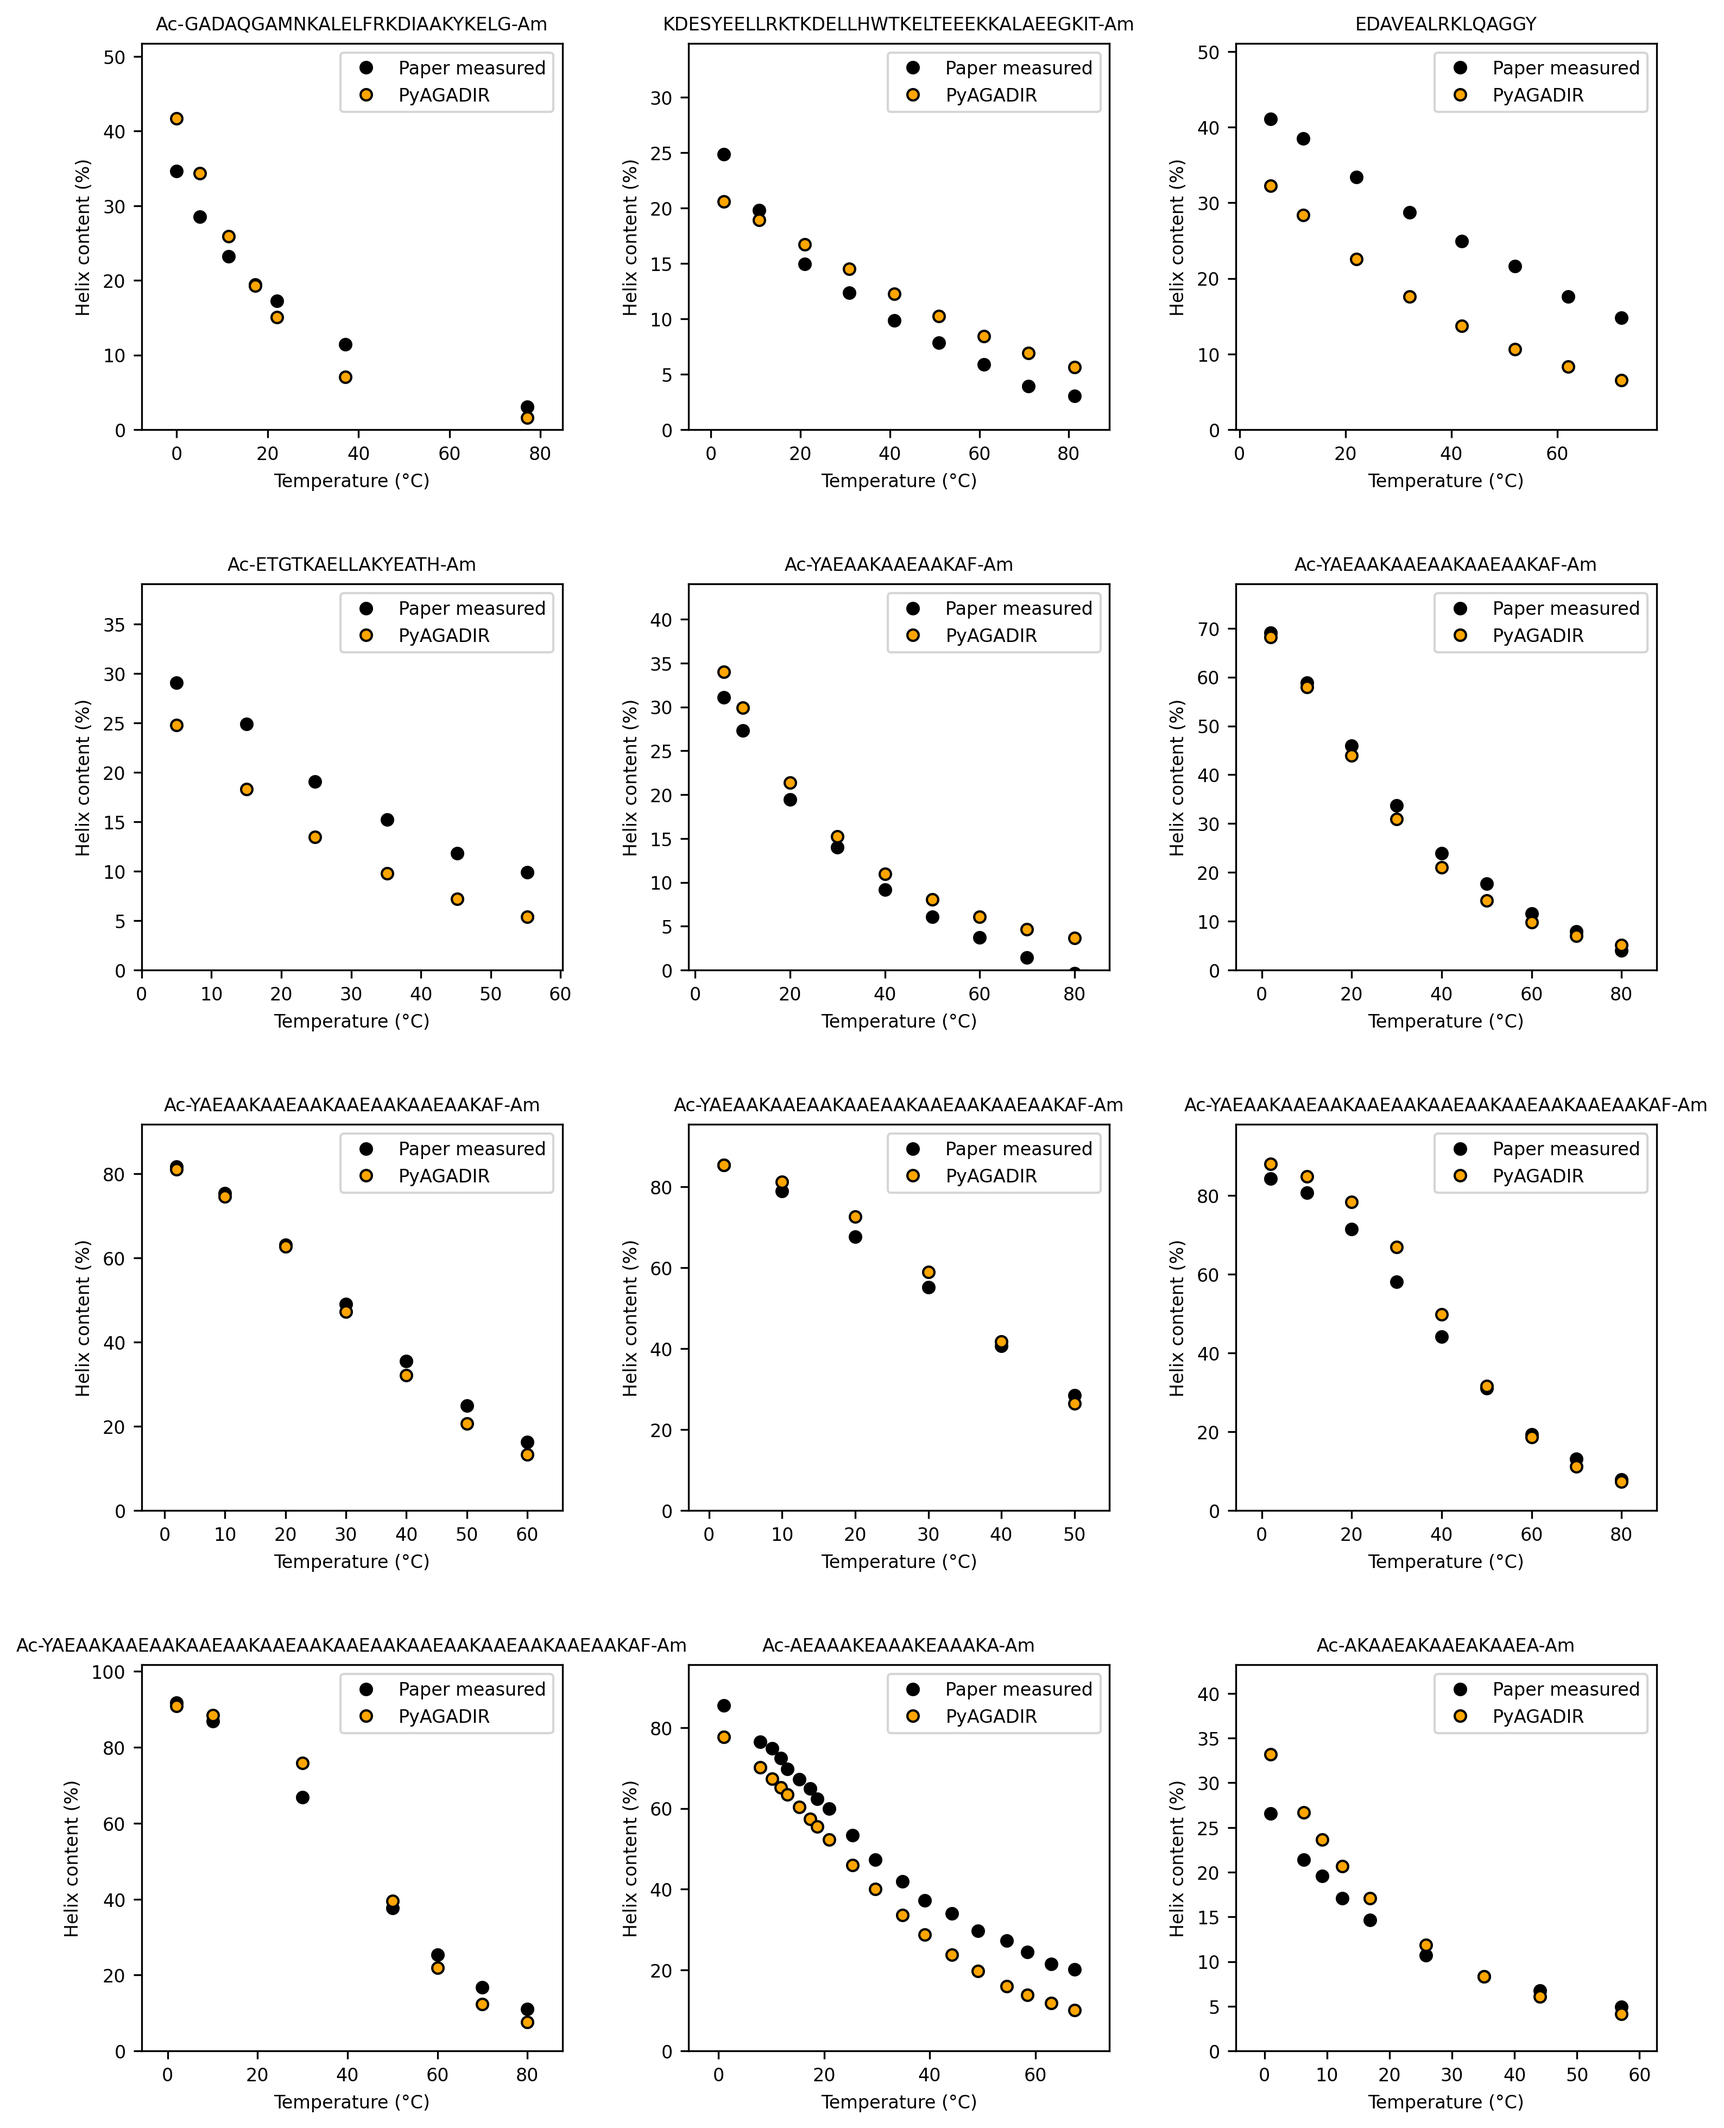
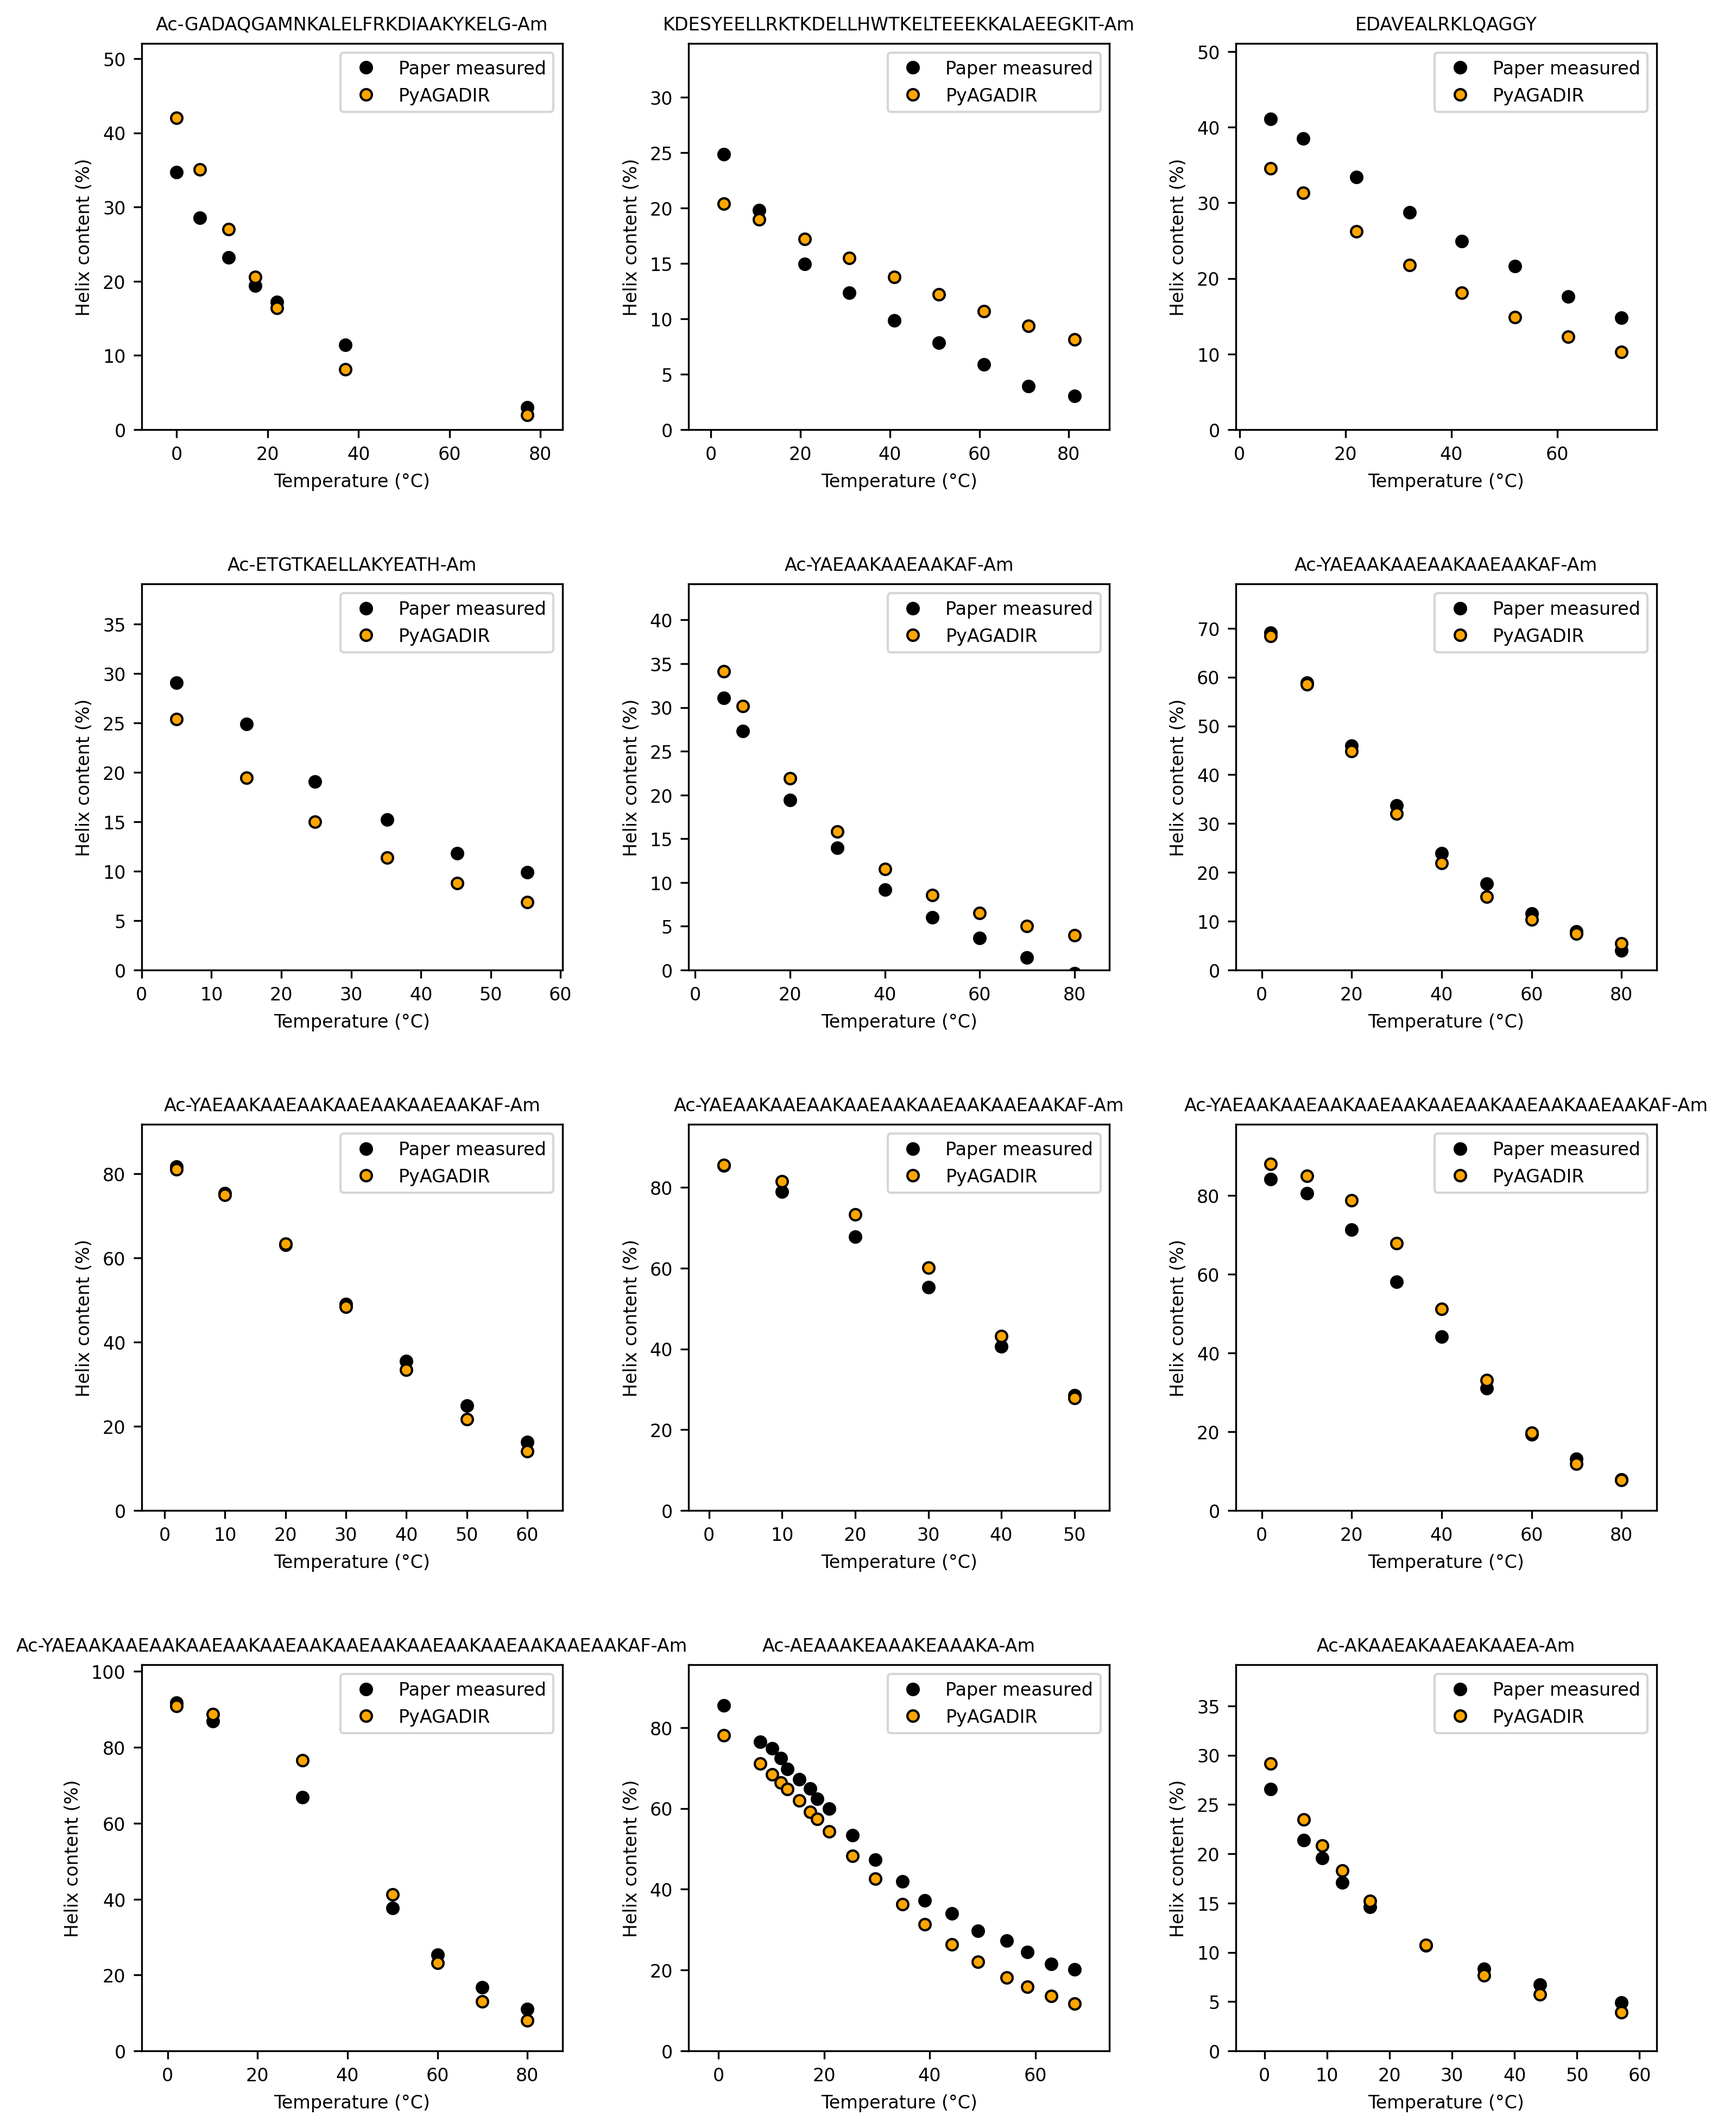
Lys and Arg at N2 take Leu's measured peptide offset: 0.097/0.199 -> 0.25
FIRST_TURN_N2_OFFSET for K and R now equals the N2-minus-interior cost
measured for Leu in poly-Ala peptides (Petukhov et al. 1998, +0.25),
instead of the protein single-mutant scan (Tsuboyama et al. 2023),
which gave +0.097 and +0.199. H, C, F, Y and W keep the scan values.

The peptides with Lys at N2 support the peptide value once each is
compared with the other peptides of its own host. With the scan values,
Lys at N2 was over-predicted relative to its own host in every design
that allows the comparison: 3.8 helix points in Cochran & Doig's N2 host
(-0.3 now), 8.0 in Lacroix et al.'s Lys walk (5.9) and 5.9 in Marqusee
& Baldwin's Ac-AKAAEAKAAEAKAAEA-NH2 (2.0).

Mean panel RMSE 3.132 -> 2.969 (Lacroix 2.763 -> 2.509, Munoz & Serrano
1995 3.970 -> 3.818, Munoz & Serrano 1997 1.203 -> 1.154,
Huyghues-Despointes unchanged); residual structure 2.484 -> 2.440.
Six literature sets are worse by 0.5 or more (Padmanabhan 1996 +2.2,
Marqusee & Baldwin 1987 +1.9, Doig & Baldwin 1995 +1.4, Chakrabartty
1993 +1.3, Padmanabhan & Baldwin 1994 +1.2, Chakrabartty 1994 +0.5).
In all of them every peptide has Lys at N2, and each host is already
under-predicted for documented reasons (multi-charge salt gain at 1 M,
N-terminal Tyr/Trp induced CD, the ...AAGY frame). Lacroix's KR-7f stays
about 6 points high, and the (i+4)K,E peptide of Marqusee & Baldwin
gets 4 points lower. See params/README.md.

Validation figures regenerated. They also pick up the Leu N3 cell, the
[…]

diff --git a/pyagadir/energies.py b/pyagadir/energies.py
@@ -50,12 +50,12 @@ SUCCINYL_HELIX_DISTANCE = {("acid", 1): 9.33, ("acid", 2): 3.95, ("acid", 3): 5.
 
 # First-turn offset (kcal/mol at 273 K) added to the Table 1 N2 cell of the residues whose first-turn cells were never
 # measured in peptides (Lacroix 1998 took the N1-N4 cells from Petukhov's poly-Ala measurements; K, R and H were left
-# at their interior value, C, F, Y and W at round numbers). Each value makes the residue's N2-minus-interior offset
-# equal to the one measured in the single-mutant scan of Tsuboyama et al. 2023 (Nature 620, 434; exposed helix sites,
-# relative to Ala), scaled by 0.943 so that Leu's protein offset equals its peptide value (Petukhov et al. 1998,
-# J. Mol. Biol. 278, 279: N2 +0.25 above the interior), after removing this model's own electrostatic N2 offset for
-# the charged residues (+0.055 for Lys/Arg at the scan's conditions). Charge-independent. See params/README.md.
-FIRST_TURN_N2_OFFSET = {"K": 0.097, "R": 0.199, "H": -0.059, "C": 0.228, "F": 0.162, "Y": 0.157, "W": 0.141}
+# at their interior value, C, F, Y and W at round numbers). Lys and Arg take the measured peptide value for Leu at N2
+# (Petukhov et al. 1998, J. Mol. Biol. 278, 279: +0.25 above the interior), which the peptides with Lys at N2 support
+# when each is compared with the other peptides of its own host. H, C, F, Y and W take the N2-minus-interior offsets of
+# the single-mutant scan of Tsuboyama et al. 2023 (Nature 620, 434; exposed helix sites, relative to Ala), scaled by
+# 0.943 so that Leu's protein offset equals its peptide value. Charge-independent. See params/README.md.
+FIRST_TURN_N2_OFFSET = {"K": 0.25, "R": 0.25, "H": -0.059, "C": 0.228, "F": 0.162, "Y": 0.157, "W": 0.141}
 
 # Hydrogen-bond terms share one temperature law (EnergyCalculator._hbond_temperature): Munoz & Serrano 1995-III
 # eq. (8) for the backbone bond, dH_ref = -0.898 kcal/mol per bond at 273 K (Lacroix 1998). Side chains and end groups

diff --git a/pyagadir/params/README.md b/pyagadir/params/README.md
@@ -33,7 +33,7 @@ The Glu (E) row departs from the published table: its charged columns are 0.172 
 
 The Ile (I) and Leu (L) N3 cells depart from the published table: I 1.08 → 1.26 and L 0.98 → 1.10. The published N3 values come from Petukhov et al. (1998, J. Mol. Biol. 278, 279; peptides Ac-AAXAAAAARAAARGGY-NH2) and were fitted in an earlier version of the model. With this model's other terms they no longer reproduce those peptides. Each cell is re-fitted so that the model's X3/Ala helicity ratio equals the measured one. Ile: two independent hosts agree, +0.20 for Petukhov et al. (1998) and +0.17 for Iqbalsyah & Doig (2004, Protein Sci. 13, 32; Ac-AAXAAAAKAAAAKAGY-NH2), and the cell is their mean. Leu: the cell rests on Petukhov et al. (1998) alone (L3/A1 = 0.766 against 0.767 measured). An earlier version also averaged in a fit to Iqbalsyah & Doig (2004), giving 1.21, but the two fits disagreed (+0.16 and +0.30 on the published value when they were made). That host's N3 series disagrees with every other source for nearly every non-aliphatic residue: the model over-predicts its Lys, Gln, Asn and Arg variants by 8, 9, 16 and 31 helix points. The authors note that their N3 energies are higher than Petukhov's. Moving a residue from N2 to N3 in the same lab's near-identical N2 host (Cochran & Doig 2001, Protein Sci. 10, 1305) lowers the measured helicity by 6–29 points where the model predicts no change. Its Lys variant has the same local sequence as the Ac-(AAKAA)nY peptides of Rohl et al. (1992, Biochemistry 31, 1263; helicity from amide exchange at 1 M NaCl), which the model fits. Exposed N3 sites in the single-mutant scan of Tsuboyama et al. (2023, Nature 620, 434) put Leu +0.17 above the helix interior relative to Ala (cell 0.99 on the peptide scale used for `FIRST_TURN_N2_OFFSET`), in the same direction as the Petukhov-only value. Effect of 1.21 → 1.10: mean panel RMSE -0.002 (Munoz & Serrano 1995 -0.004; Huyghues-Despointes, Lacroix and Munoz & Serrano 1997 unchanged); Petukhov et al. (1998) Leu-at-N3 peptide from 2.9 to 0.3 helix points off. The only literature set that moves by more than 0.1 is Petukhov et al. (1996, +0.14). Met, Val and Gly N3 cells reproduce Petukhov et al. (1998) as published and are unchanged.
 
-First-turn N2 offset (`FIRST_TURN_N2_OFFSET` in energies.py, added to the N2 cell; the table itself is unchanged): K +0.097, R +0.199, H -0.059, C +0.228, F +0.162, Y +0.157, W +0.141 kcal/mol. Lacroix et al. (1998) took the N1-N4 cells from poly-Ala peptide measurements (Petukhov et al. 1998, J. Mol. Biol. 278, 279, for Leu, Ile, Val, Met and Gly; Petukhov & Serrano, unpublished). The other residues were never measured there: K, R and H keep their interior value at N2, and C, F, Y and W a round -0.10. Lacroix et al. suggested that their over-predicted Lys-at-N2 peptide (KR-7f, their Fig. 4G) reflects exactly this: "the intrinsic helical propensity of Lys is position dependent in the first helical turn". Every residue measured at N2 is less favourable there than in the interior relative to Ala: Leu +0.25 in Petukhov's peptides, and similar costs in the N2 scan of Cochran & Doig (2001, Protein Sci. 10, 1305). Petukhov et al. attribute this to the side chain's fewer contacts with the first helical turn, only partly repaid by its extra chi1 freedom there. Nothing in that mechanism depends on charge, so the offset is added after the charged/neutral interpolation. The per-residue sizes come from a second, independent measurement: the single-mutant scan of Tsuboyama et al. (2023, Nature 620, 434). At exposed helix sites, relative to Ala, each residue's N2-minus-interior stability cost was taken, scaled by 0.943 so that Leu's protein value (+0.27) equals its peptide value (+0.25). For Lys and Arg the scan's value includes the charge-macrodipole interaction, which this model computes separately, so its own N2 offset at the scan's conditions (+0.055) was removed first. Effect: mean panel RMSE 3.502 -> 3.386 (Lacroix 3.075 -> 2.886, Lys-at-N2 panel KR-7f 9.36 -> 7.88; Munoz & Serrano 1995 4.507 -> 4.407, its Marqusee & Baldwin 1987 Ac-AKAAEAK... panel 5.15 -> 3.50; Munoz & Serrano 1997 1.261 -> 1.223); residual structure 2.587 -> 2.565. Literature sets worse by more than 1.0: Marqusee & Baldwin 1987 (+1.08; its (i+4)K,E peptide is already under-predicted by 30 points) and Padmanabhan et al. 1996 (+1.24; its N-terminal Tyr adds a positive induced CD band that lowers the measured helicity, Chakrabartty et al. 1993, Biochemistry 32, 5560). Both are Lys-at-N2 peptides of a Lys-rich family that the model already under-predicts. Status: the offset rests on one peptide anchor (Leu) and one protein dataset for the pattern. A peptide N2 scan of K, R, H, C, F, Y and W without aromatic CD artefacts would test it and should supersede it. The peptides support a larger Lys value (about +0.25 to +0.4: Cochran & Doig 2001; Lacroix et al. 1998 KR-7f; Marqusee & Baldwin 1987), so KR-7f stays over-predicted by about 7 points.
+First-turn N2 offset (`FIRST_TURN_N2_OFFSET` in energies.py, added to the N2 cell; the table itself is unchanged): K +0.25, R +0.25, H -0.059, C +0.228, F +0.162, Y +0.157, W +0.141 kcal/mol. Lacroix et al. (1998) took the N1-N4 cells from poly-Ala peptide measurements (Petukhov et al. 1998, J. Mol. Biol. 278, 279, for Leu, Ile, Val, Met and Gly; Petukhov & Serrano, unpublished). The other residues were never measured there: K, R and H keep their interior value at N2, and C, F, Y and W a round -0.10. Lacroix et al. suggested that their over-predicted Lys-at-N2 peptide (KR-7f, their Fig. 4G) reflects exactly this: "the intrinsic helical propensity of Lys is position dependent in the first helical turn". Every residue measured at N2 is less favourable there than in the interior relative to Ala: Leu +0.25 in Petukhov's peptides, and similar costs in the N2 scan of Cochran & Doig (2001, Protein Sci. 10, 1305). Petukhov et al. attribute this to the side chain's fewer contacts with the first helical turn, only partly repaid by its extra chi1 freedom there. Nothing in that mechanism depends on charge, so the offset is added after the charged/neutral interpolation. Lys and Arg take Leu's measured peptide value, +0.25. The peptides with Lys at N2 support it once each is compared with the other peptides of its own host, which removes host-level errors that have nothing to do with N2. With the protein-scan values used before (K +0.097, R +0.199, below), Lys at N2 was over-predicted relative to its own host in every design that allows the comparison: by 3.8 helix points against the other N2 guests of Cochran & Doig's host (-0.3 at +0.25), 8.0 against the rest of Lacroix et al.'s Lys walk (5.9) and 5.9 against the other Marqusee & Baldwin (1987) Table 1 peptides for Ac-AKAAEAKAAEAKAAEA-NH2 (2.0). Arg at N2 in Cochran & Doig's host goes from +3.8 to +2.5. H, C, F, Y and W take the single-mutant scan of Tsuboyama et al. (2023, Nature 620, 434): at exposed helix sites, relative to Ala, each residue's N2-minus-interior stability cost, scaled by 0.943 so that Leu's protein value (+0.27) equals its peptide value (+0.25). That scan gives Lys and Arg less (+0.097 and +0.199 after removing this model's own electrostatic N2 offset at the scan's conditions, +0.055); for them the peptide measurements are preferred. Effect of the Lys and Arg values (from the protein-scan values): mean panel RMSE 3.132 -> 2.969 (Lacroix 2.763 -> 2.509, Munoz & Serrano 1995 3.970 -> 3.818, its Marqusee & Baldwin Ac-AKAAEAK... melt 3.64 -> 1.38; Munoz & Serrano 1997 1.203 -> 1.154; Huyghues-Despointes unchanged); residual structure 2.484 -> 2.440. Literature sets worse by 0.5 or more: Padmanabhan et al. 1996 (+2.2), Marqusee & Baldwin 1987 (+1.9; its (i+4)K,E peptide is already under-predicted by 33 points), Doig & Baldwin 1995 Table 1 (+1.4), Chakrabartty et al. 1993 (+1.3), Padmanabhan & Baldwin 1994 (+1.2) and Chakrabartty et al. 1994 (+0.5). In each of these every peptide has Lys at N2, so the N2 Lys cannot be compared with a control from the same host, and each host is already under-predicted for documented reasons: the larger-than-modelled salt gain of peptides with many charges at 1 M, the positive induced CD of an N-terminal Tyr or Trp (Chakrabartty et al. 1993, Biochemistry 32, 5560), and the ...AAGY C-terminal frame. Status: the Lys and Arg value is Leu's, transferred; Lacroix et al.'s KR-7f stays over-predicted by about 6 points. A walk of Lys through N1-N3 in a Lys-free acetylated host at pH 7 would test the value directly.
 
 Capping box: when the N-cap is Ser, Thr, Asp or Asn and N3 is Glu, the Nc-3 value gets an extra -0.9 kcal/mol, weighted by the helix-state ionisation of that Glu (set in `get_dG_Ncap`). The published Nc-3 column gives Ser no capping-box advantage at all (Nc-3 -0.65 vs Nc-1 -0.70). Peptide measurements that isolate the motif put it at -0.9 +/- 0.3 kcal/mol (mean of five within-paper comparisons): Glu vs Ala, Gln and Asp at N3 with a Ser N-cap (Zhou et al. 1994, Proteins 18, 1, Table I), and Ser vs Ala N-caps (Petukhov et al. 1996, Biochemistry 35, 387, Table 1). Glu outperforms Gln by as much as it outperforms Ala, which places the effect on the charged carboxylate.
 
